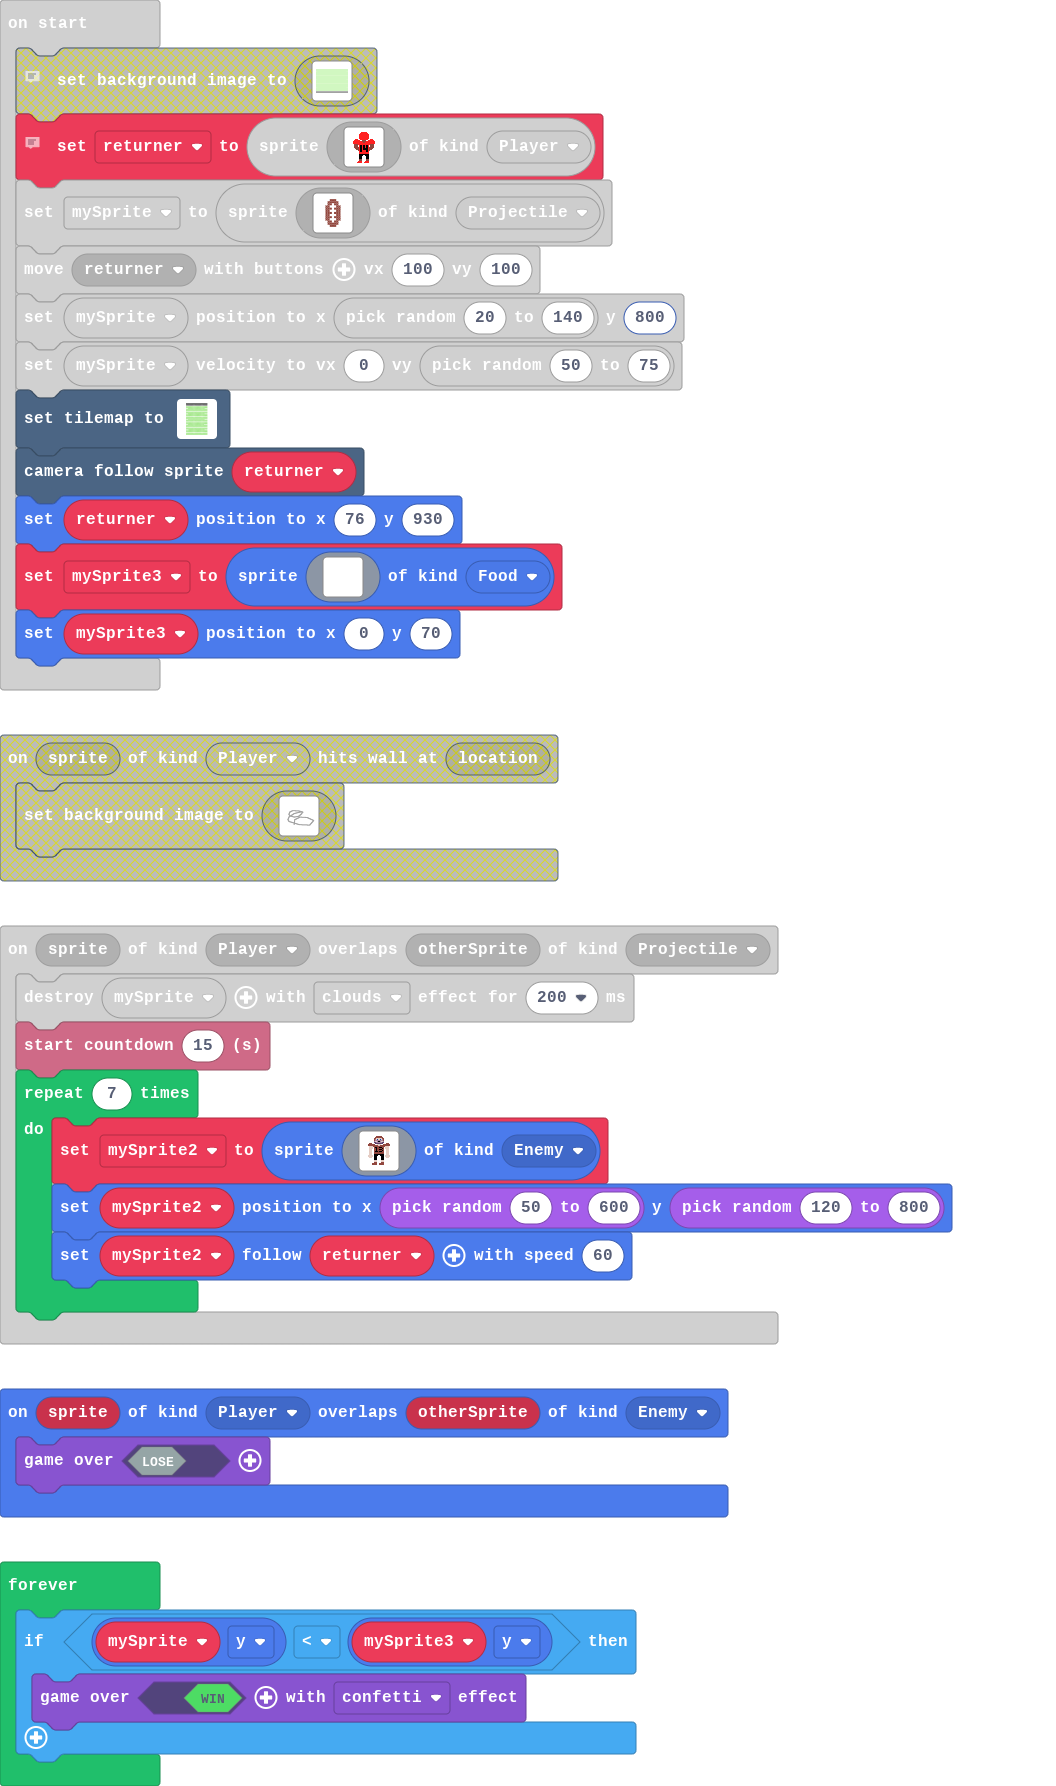
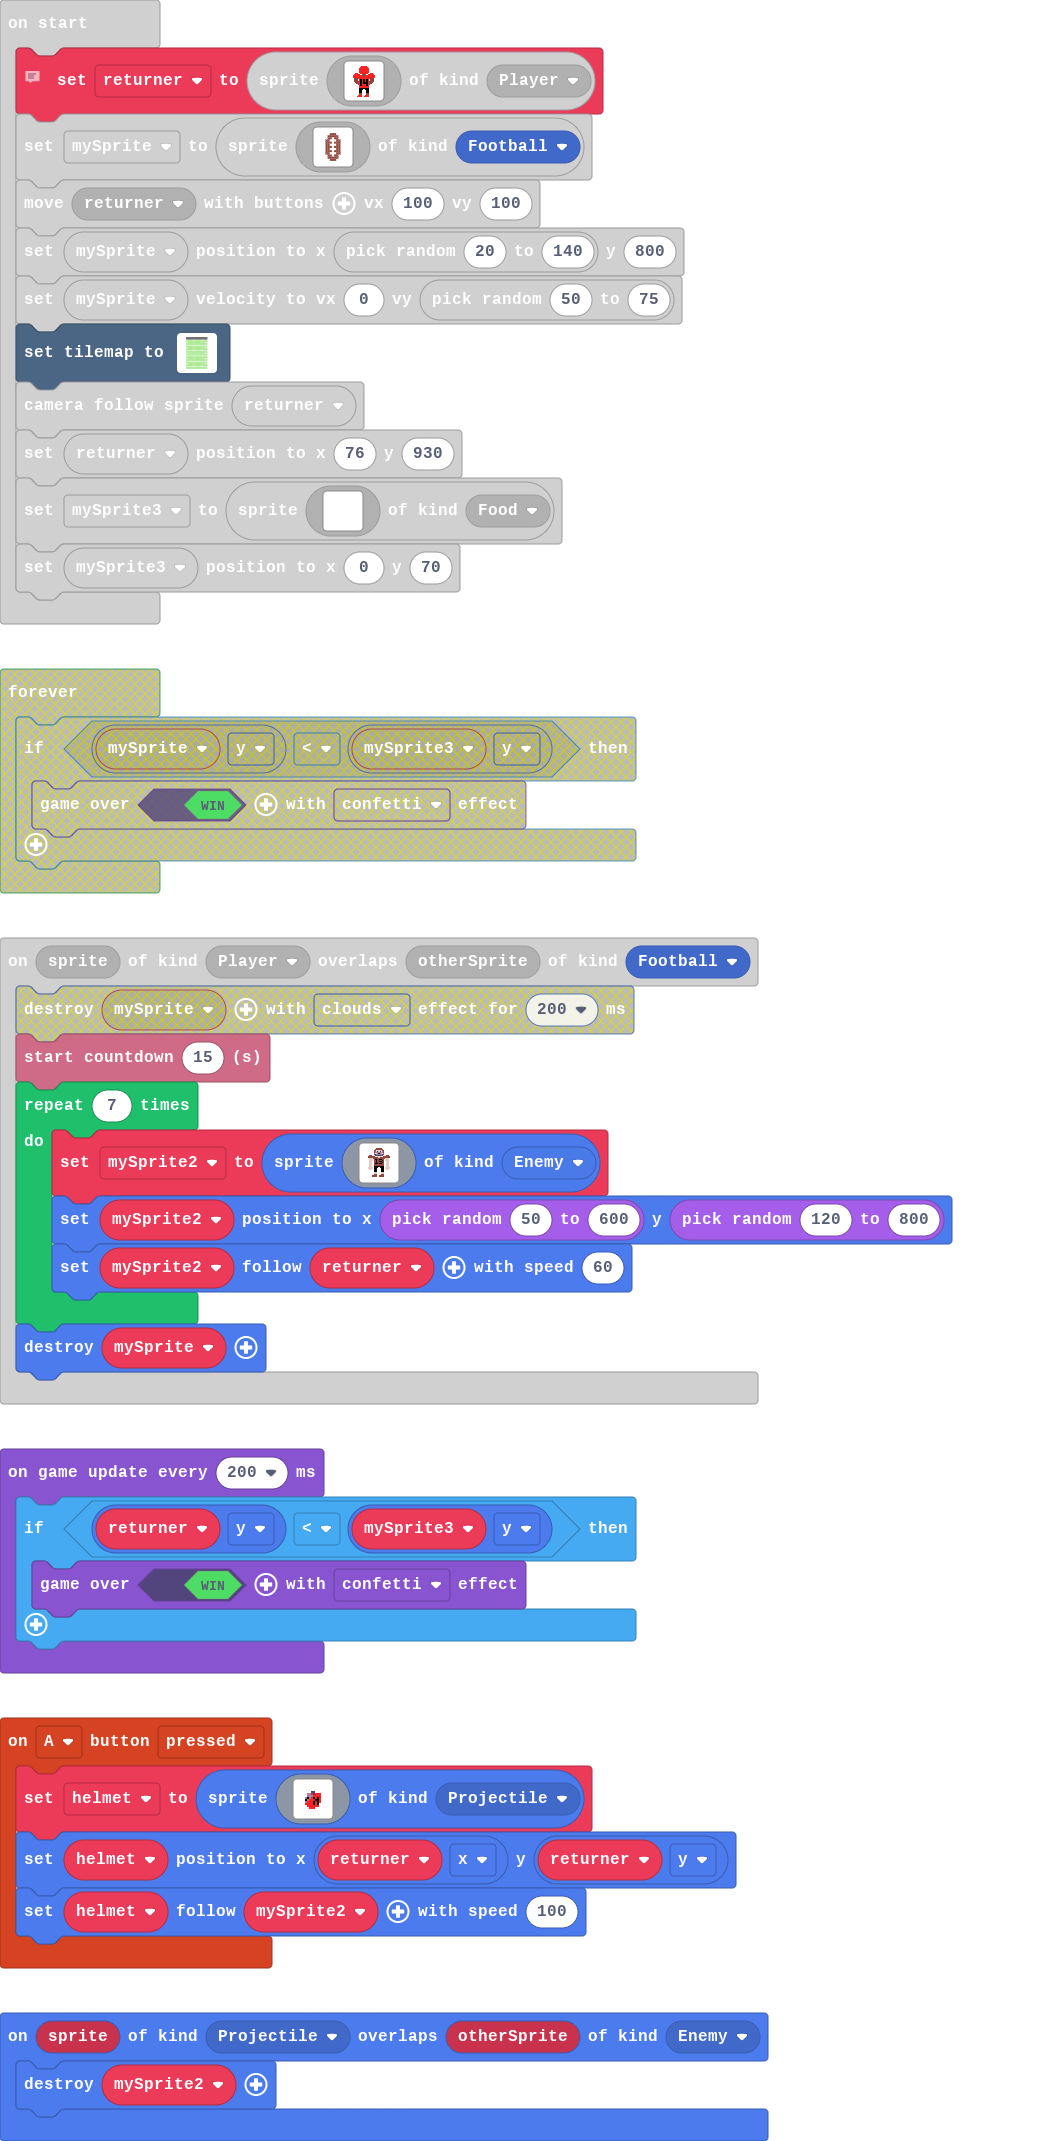
Update main.blocks, main.ts

diff --git a/main.ts b/main.ts
@@ -1,4 +1,29 @@
-sprites.onOverlap(SpriteKind.Player, SpriteKind.Projectile, function (sprite, otherSprite) {
+namespace SpriteKind {
+    export const Football = SpriteKind.create()
+}
+controller.A.onEvent(ControllerButtonEvent.Pressed, function () {
+    helmet = sprites.create(img`
+        . . . . . . . . . . . . . . . . 
+        . . . . . . . . . . . . . . . . 
+        . . . . . . . . . . . . . . . . 
+        . . . . . . . . . . . . . . . . 
+        . . . . . . . c c . . . . . . . 
+        . . . . . b b 2 c 2 2 2 . . . . 
+        . . . . . b b b 2 2 2 2 . . . . 
+        . . . . b f b 2 f 2 f 2 . . . . 
+        . . . . f b 2 2 2 f f 2 . . . . 
+        . . . . b 2 2 2 f 2 f 2 . . . . 
+        . . . . 2 2 2 2 f 2 f . . . . . 
+        . . . . . 2 2 2 2 2 2 . . . . . 
+        . . . . . . 2 2 2 . . . . . . . 
+        . . . . . . . . . . . . . . . . 
+        . . . . . . . . . . . . . . . . 
+        . . . . . . . . . . . . . . . . 
+        `, SpriteKind.Projectile)
+    helmet.setPosition(returner.x, returner.y)
+    helmet.follow(mySprite2, 100)
+})
+sprites.onOverlap(SpriteKind.Player, SpriteKind.Football, function (sprite, otherSprite) {
     mySprite.destroy()
     info.startCountdown(15)
     for (let index = 0; index < 7; index++) {
@@ -40,10 +65,14 @@ sprites.onOverlap(SpriteKind.Player, SpriteKind.Projectile, function (sprite, ot
         mySprite2.follow(returner, 60)
     }
 })
+sprites.onOverlap(SpriteKind.Projectile, SpriteKind.Enemy, function (sprite, otherSprite) {
+    mySprite2.destroy()
+})
 sprites.onOverlap(SpriteKind.Player, SpriteKind.Enemy, function (sprite, otherSprite) {
     game.over(false)
 })
 let mySprite2: Sprite = null
+let helmet: Sprite = null
 let mySprite: Sprite = null
 let returner: Sprite = null
 // Player
@@ -97,7 +126,7 @@ mySprite = sprites.create(img`
     . . . . . e e e e e . . . . . 
     . . . . . . e e e . . . . . . 
     . . . . . . . . . . . . . . . 
-    `, SpriteKind.Projectile)
+    `, SpriteKind.Football)
 controller.moveSprite(returner, 100, 100)
 mySprite.setPosition(randint(20, 140), 800)
 mySprite.setVelocity(0, randint(50, 75))
@@ -162,7 +191,7 @@ tiles.setTilemap(tiles.createTilemap(hex`28003c000101010101010101010101010101010
     . . . . . . . . . . . . . . . . . . . . . . . . . . . . . . . . . . . . . . . . 
     . . . . . . . . . . . . . . . . . . . . . . . . . . . . . . . . . . . . . . . . 
     . . . . . . . . . . . . . . . . . . . . . . . . . . . . . . . . . . . . . . . . 
-    `, [myTiles.transparency16,myTiles.tile1,myTiles.tile2,myTiles.tile3], TileScale.Sixteen))
+    `, [myTiles.transparency16,myTiles.tile1,myTiles.tile2,myTiles.tile3,myTiles.tile4], TileScale.Sixteen))
 scene.cameraFollowSprite(returner)
 returner.setPosition(76, 930)
 let mySprite3 = sprites.create(img`
@@ -184,8 +213,8 @@ let mySprite3 = sprites.create(img`
     . . . . . . . . . . . . . . . . 
     `, SpriteKind.Food)
 mySprite3.setPosition(0, 70)
-forever(function () {
-    if (mySprite.y < mySprite3.y) {
+game.onUpdateInterval(200, function () {
+    if (returner.y < mySprite3.y) {
         game.over(true, effects.confetti)
     }
 })
